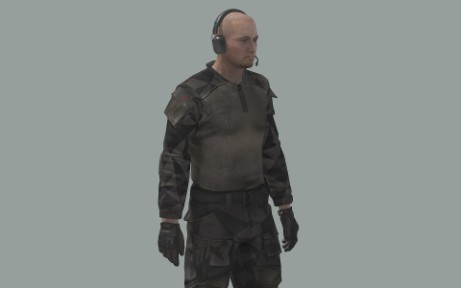
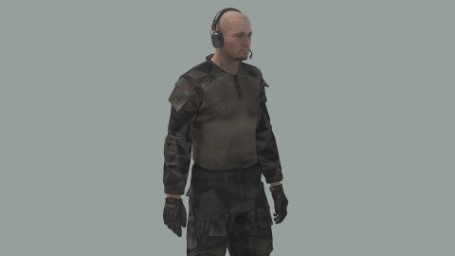
Fixed editor preview images and gear fix.

diff --git a/addons/characters_o/CfgVehicles.hpp b/addons/characters_o/CfgVehicles.hpp
@@ -626,7 +626,7 @@ class CfgVehicles {
         scopeCurator = 2;
         displayName = CSTRING(Officer_Display);
         author = ECSTRING(common,BlackOrderTeam);
-        editorPreview = QPATHTOF(EditorPreviews\O_BlackOrder_Rifleman_Light_F.jpg);
+        editorPreview = QPATHTOF(EditorPreviews\O_BlackOrder_Officer_F.jpg);
 
         icon = "iconManOfficer";
 
@@ -675,7 +675,7 @@ class CfgVehicles {
         scopeCurator = 2;
         displayName = CSTRING(Commissar_01_Display);
         author = ECSTRING(common,BlackOrderTeam);
-        editorPreview = QPATHTOF(EditorPreviews\O_BlackOrder_Rifleman_Light_F.jpg);
+        editorPreview = QPATHTOF(EditorPreviews\O_BlackOrder_Commissar_01_F.jpg);
 
         role="SpecialOperative";
         icon = "iconManOfficer";
@@ -739,7 +739,7 @@ class CfgVehicles {
         scopeCurator = 2;
         displayName = CSTRING(Commissar_02_Display);
         author = ECSTRING(common,BlackOrderTeam);
-        editorPreview = QPATHTOF(EditorPreviews\O_BlackOrder_Rifleman_Light_F.jpg);
+        editorPreview = QPATHTOF(EditorPreviews\O_BlackOrder_Commissar_02_F.jpg);
 
         role="SpecialOperative";
         icon = "iconManOfficer";
@@ -804,7 +804,7 @@ class CfgVehicles {
         scopeCurator = 2;
         displayName = CSTRING(Soldier_AA_Display);
         author = ECSTRING(common,BlackOrderTeam);
-        editorPreview = QPATHTOF(EditorPreviews\O_BlackOrder_Rifleman_LAT_F.jpg);
+        editorPreview = QPATHTOF(EditorPreviews\O_BlackOrder_Soldier_AA_F.jpg);
 
         icon = "iconManAT";
         role="MissileSpecialist";
@@ -871,7 +871,7 @@ class CfgVehicles {
         scopeCurator = 2;
         displayName = CSTRING(Soldier_AT_Display);
         author = ECSTRING(common,BlackOrderTeam);
-        editorPreview = QPATHTOF(EditorPreviews\O_BlackOrder_Rifleman_LAT_F.jpg);
+        editorPreview = QPATHTOF(EditorPreviews\O_BlackOrder_Soldier_AT_F.jpg);
 
         icon = "iconManAT";
         role="MissileSpecialist";
@@ -1090,14 +1090,14 @@ class CfgVehicles {
 
         role="Crewman";
 
-        weapons[] = {"rhs_weap_m249_pip_L_blackorder_M2A1","rhsusf_weap_glock17g4","Throw","Put"};
-        respawnWeapons[] = {"rhs_weap_m249_pip_L_blackorder_M2A1","rhsusf_weap_glock17g4","Throw","Put"};
+        weapons[] = {"srifle_DMR_03_blackorder_F","rhsusf_weap_glock17g4","Throw","Put"};
+        respawnWeapons[] = {"srifle_DMR_03_blackorder_F","rhsusf_weap_glock17g4","Throw","Put"};
         magazines[] = {
-            MULT_OBJ_4(rhs_200rnd_556x45_M_SAW),
+            MULT_OBJ_8(20Rnd_762x51_Mag),
             MULT_OBJ_2(rhsusf_mag_17Rnd_9x19_FMJ)
         };
         respawnMagazines[] = {
-            MULT_OBJ_4(rhs_200rnd_556x45_M_SAW),
+            MULT_OBJ_8(20Rnd_762x51_Mag),
             MULT_OBJ_2(rhsusf_mag_17Rnd_9x19_FMJ)
         };
 
@@ -1128,7 +1128,7 @@ class CfgVehicles {
         scopeCurator = 2;
         displayName = CSTRING(Survivor_Display);
         author = ECSTRING(common,BlackOrderTeam);
-        editorPreview = QPATHTOF(EditorPreviews\O_BlackOrder_Rifleman_2_F.jpg);
+        editorPreview = QPATHTOF(EditorPreviews\O_BlackOrder_Survivor_F.jpg);
 
         role="Unarmed";
 
